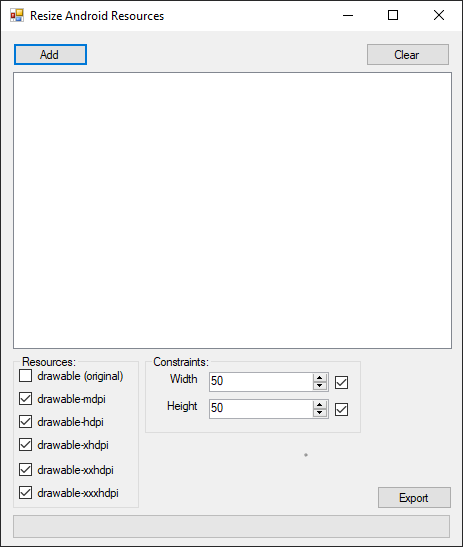
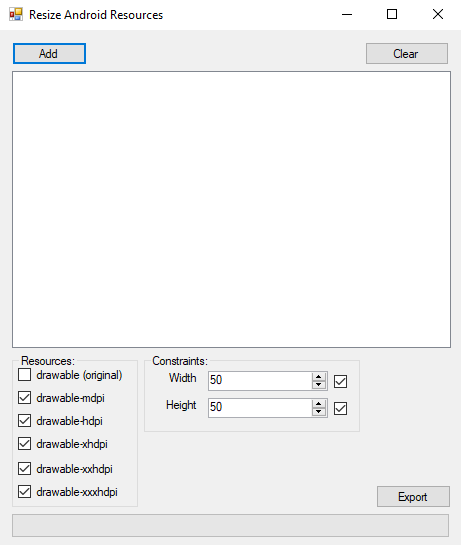
Screenshot added (3)

diff --git a/README.md b/README.md
@@ -2,4 +2,4 @@
 A tool that allow you to resize the original resources to specific Android screen dimensions.
 
 # Screenshot
-![Screenshot](screenshot.png)
+![Screenshot](Screenshot.png)
